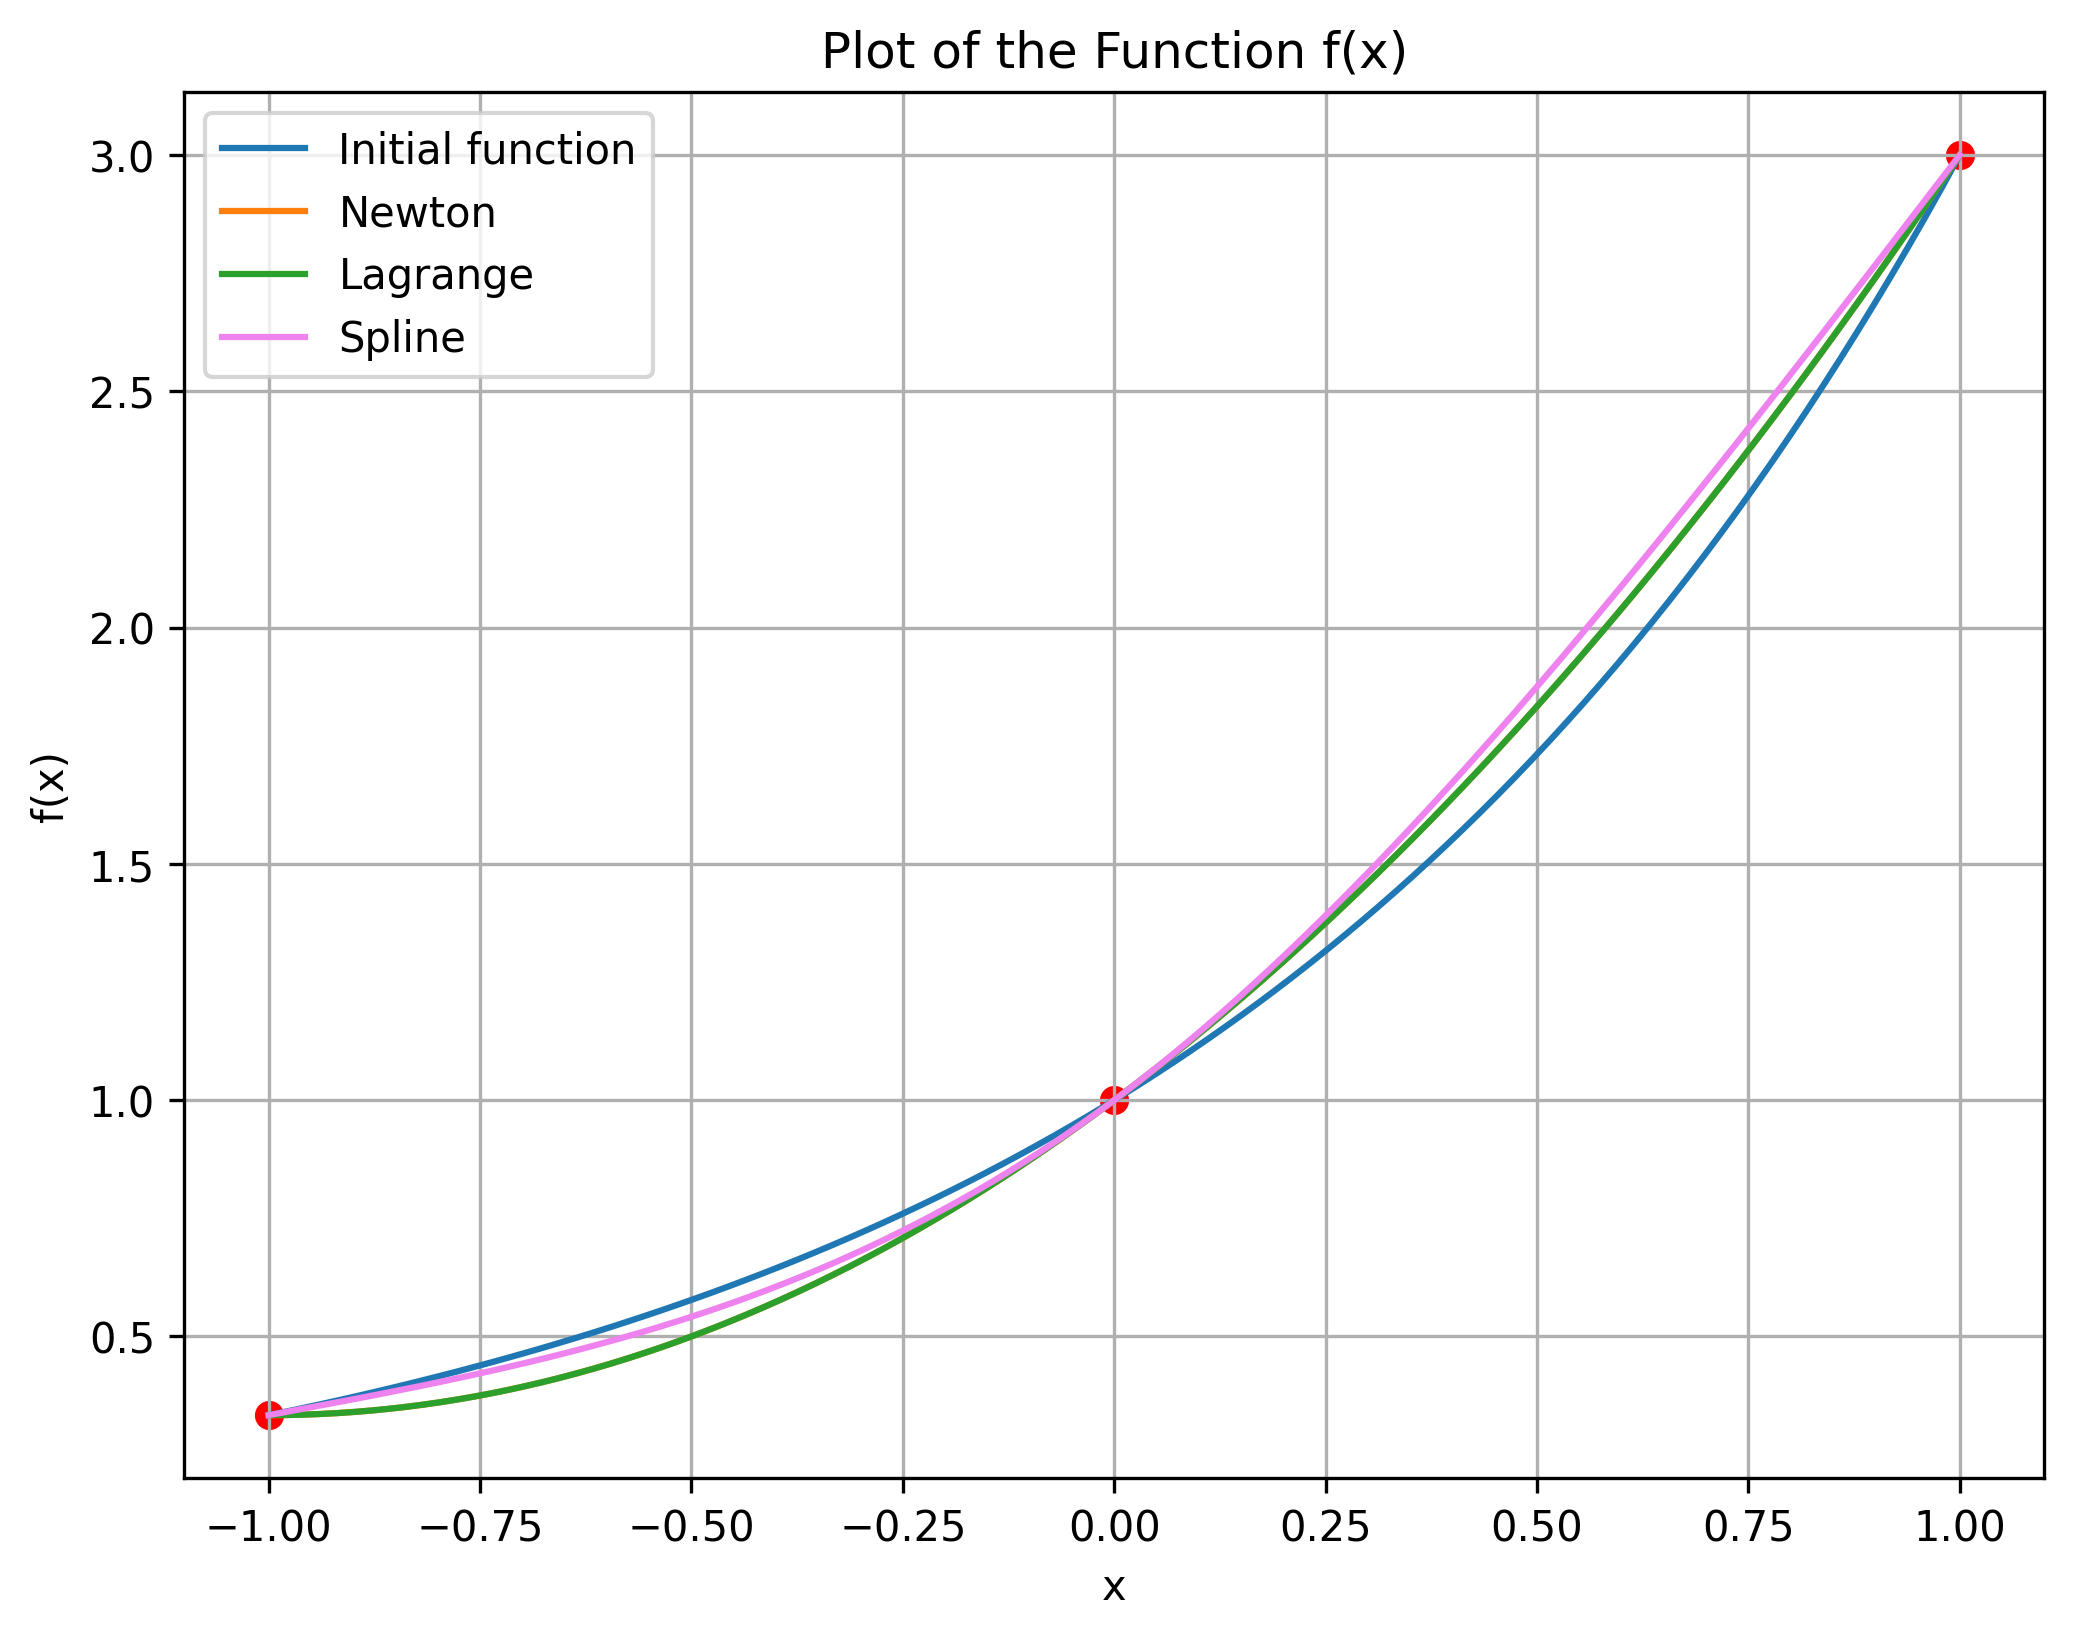
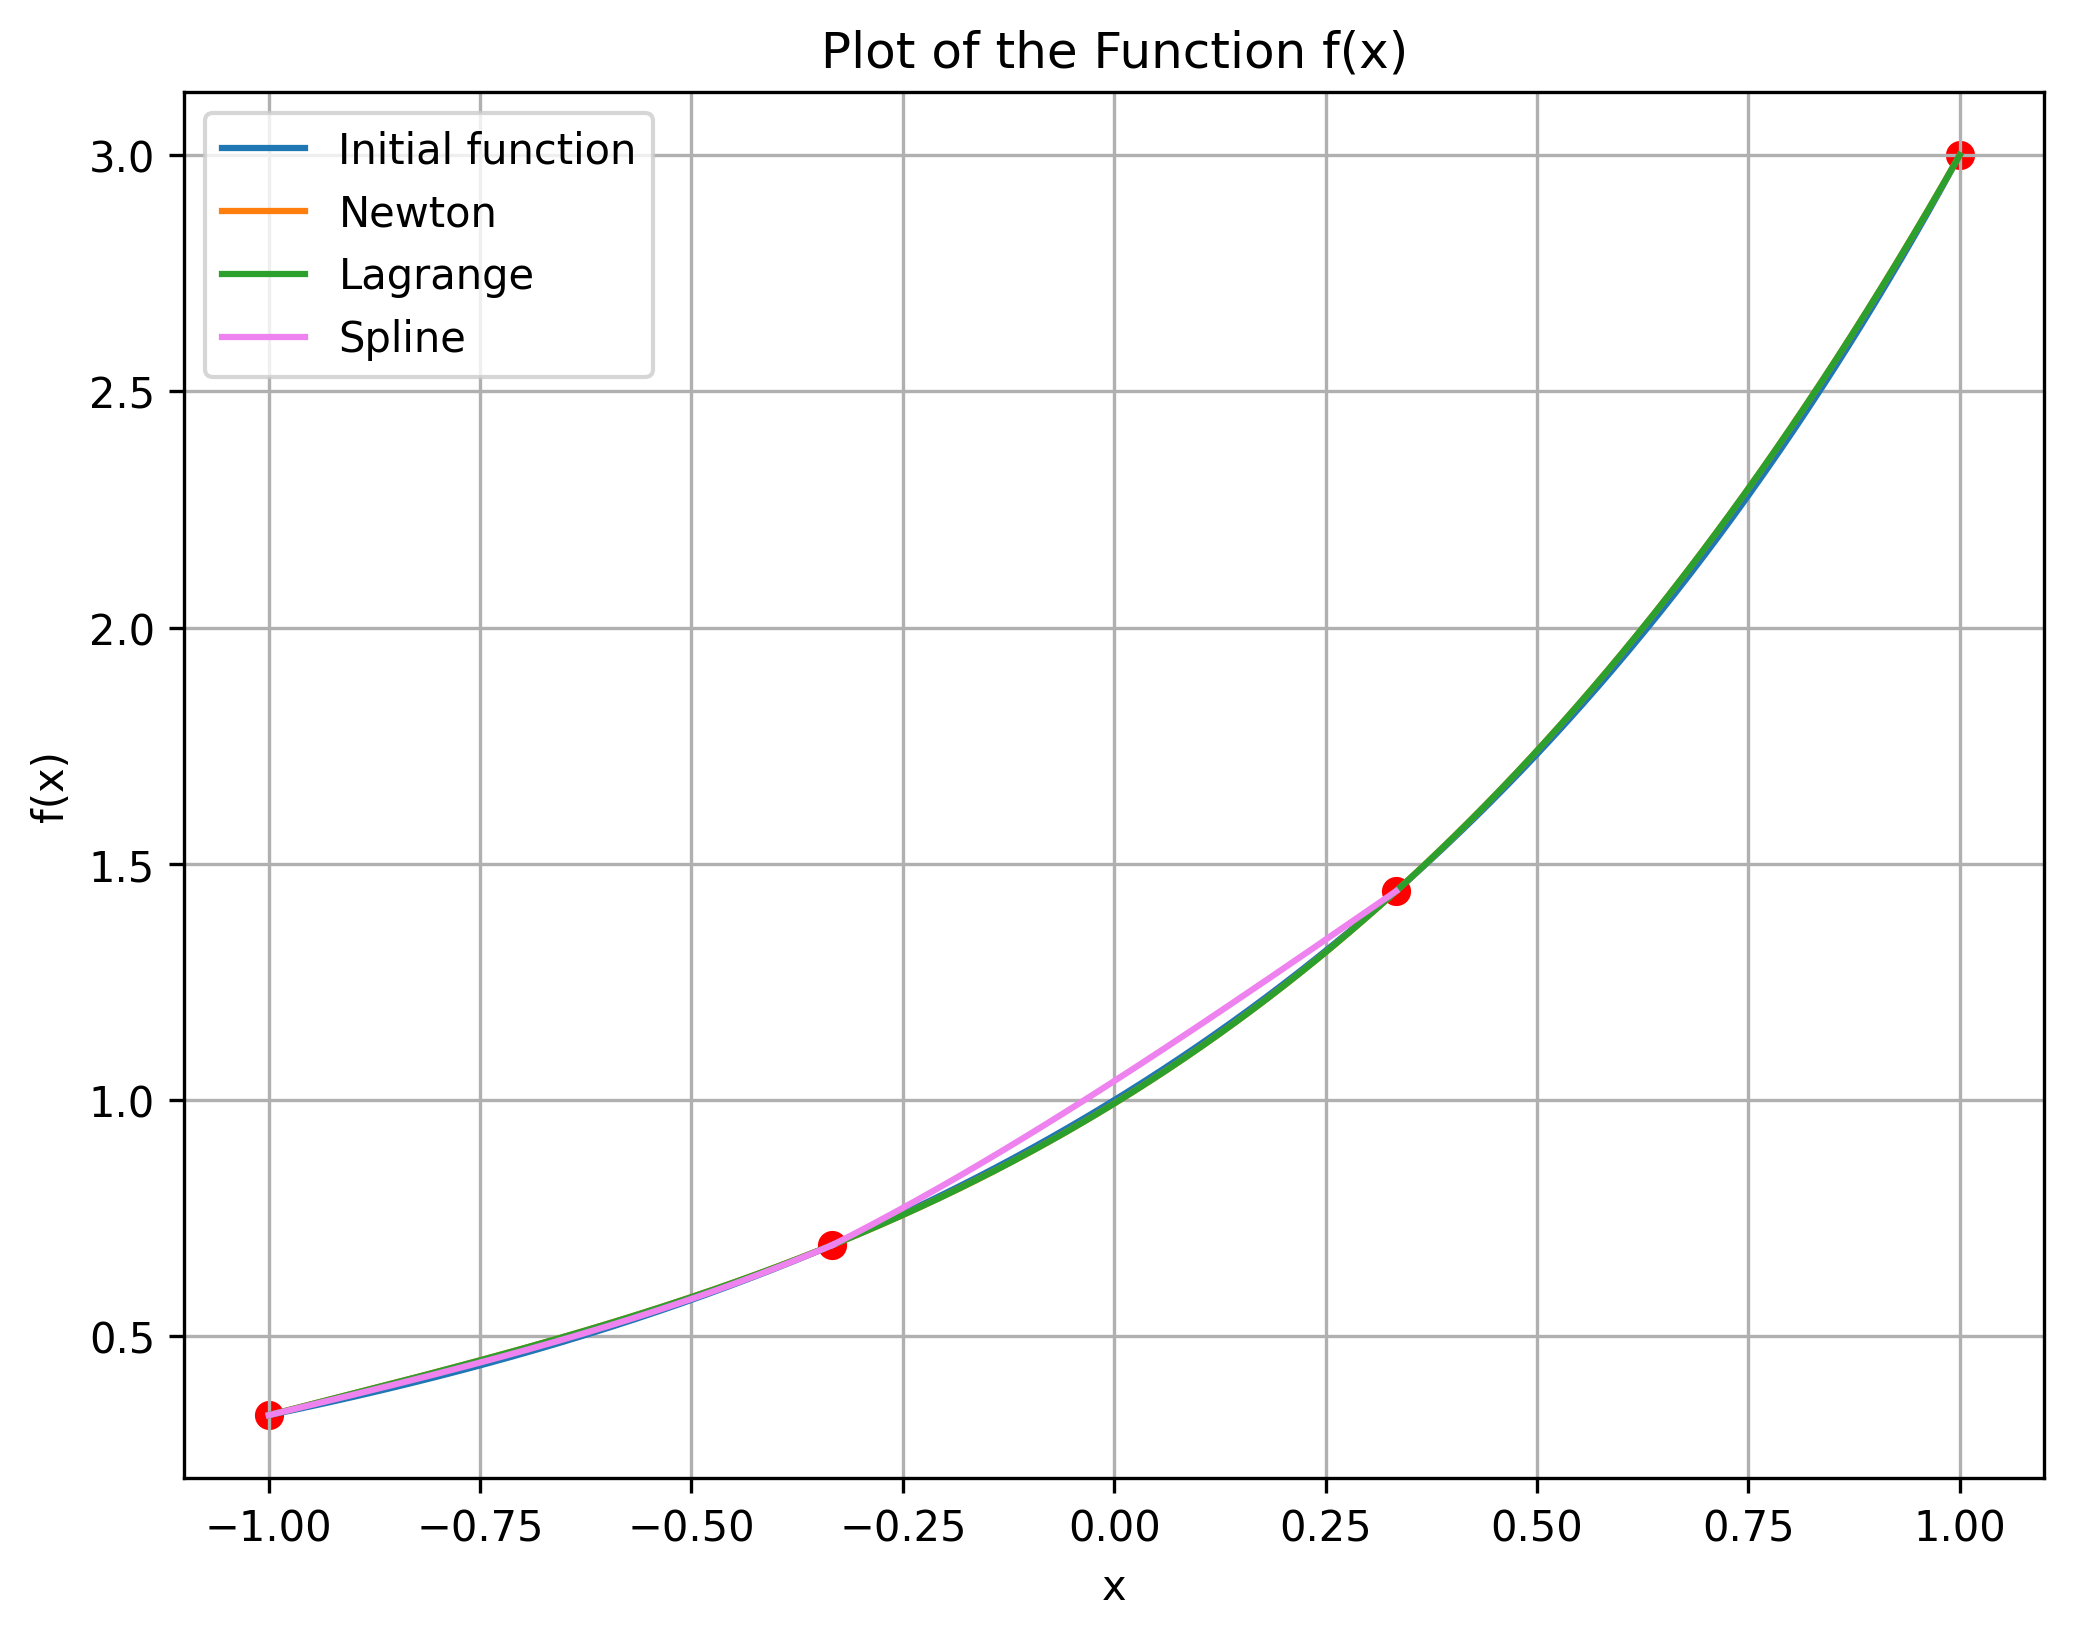
fixed lagrange derivative

diff --git a/lab5/code/lagrange.py b/lab5/code/lagrange.py
@@ -2,16 +2,19 @@ import val as v
 import sympy as sp
 
 
-
+def v_product_except(v_prod, x, val):
+    return v_prod / (x - val.argument())
 
 
 def lagrange_interpolation(vals):
     x = sp.symbols('x')
     v_prod = v_product(vals, x)
-    v_der = derivative_v_product(v_prod, x)
     polynomial = 0
+    k = 0
     for val in vals:
-        polynomial = polynomial + (v_prod * val.function()) / ((x - val.argument()) * v.at(v_der, val.argument()))
+        v_prod_curr = v_product_except(v_prod, x, vals[k])
+        polynomial = polynomial + (v_prod_curr * val.function()) / (v.at(v_prod_curr, val.argument()))
+        k += 1
     return v.simplify(polynomial)
 
 

diff --git a/lab5/code/plot.py b/lab5/code/plot.py
@@ -12,14 +12,14 @@ def init_and_plot():
     expr = 3 ** x
     a = -1
     b = 1
-    n = 3
+    n = 4
     strategy = 'Even'
     plot(x, expr, a, b, n, strategy)
 
 
 def add_to_plot(x, expr, a, b, name):
     numpy_function = sp.lambdify(x, expr, 'numpy')
-    x_values = np.linspace(a, b, 100)
+    x_values = np.linspace(a, b, 1000)
     y_values = numpy_function(x_values)
     plt.plot(x_values, y_values, label=name)
 

diff --git a/lab5/code/newton.py b/lab5/code/newton.py
@@ -17,8 +17,8 @@ def calculate_table(vals):
         args.append(v.argument())
         curr.append(v.function())
         table[i][0] = v.function()
-    next_c = []
     for i in range(1, len(vals)):
+        next_c = []
         for j in range(0, len(curr) - 1):
             dd = divided_difference(curr[j], curr[j + 1], args[j], args[j + i])
             next_c.append(dd)
